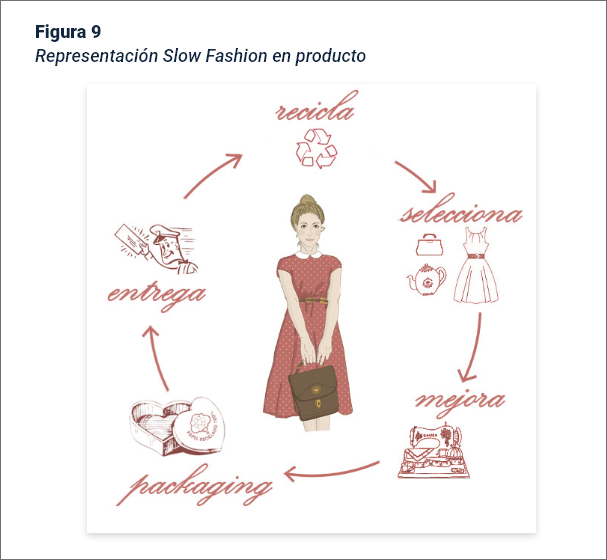
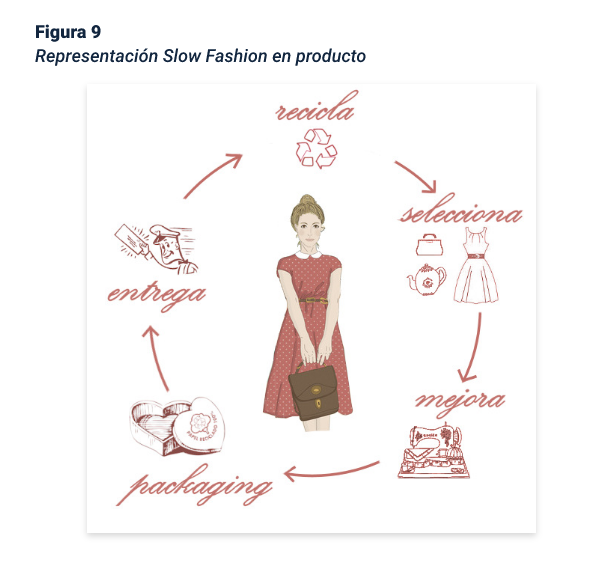
Ajustes de fonto en las imagenes

diff --git a/src/views/Tema1.vue b/src/views/Tema1.vue
@@ -45,7 +45,7 @@
     p.mb-4.text-center A partir de la anterior imagen se puede constatar lo siguiente:
     h2.mb-4.text-center Gamas de mercado en el sistema moda
 
-    SlyderB.mb-4(:datos="datosSlyder2")
+    SlyderB#slyder1.mb-4(:datos="datosSlyder2")
 
     .cajon.color-primario.fondo-a.mb-5.p-4
       p Actualmente esta línea ha hecho impulsar fenómenos como el Slow Fashion en el que la sostenibilidad juega un rol importante en la generación de productos debido a las grandes cantidades de desechos textiles, lo que en últimas genera un altísimo impacto medioambiental en contra del planeta.

diff --git a/src/styles/_custom.sass b/src/styles/_custom.sass
@@ -6,9 +6,14 @@
 .sin-fondo
   background-color: white !important
 
+//figure, picture, img, svg 
+//  background-color: #F6F6F6 !important
+
+#slyder1 figure
+  background-color: #F6F6F6 !important
+
 .fondo-gris
   background-color: #F6F6F6 !important
-  
 
 .fondo-color-primario
   background-color: $color-primario !important
